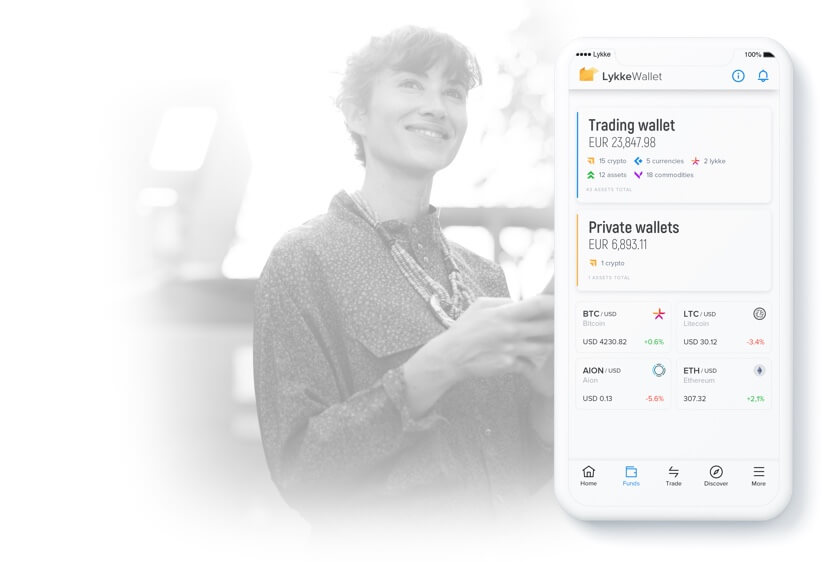
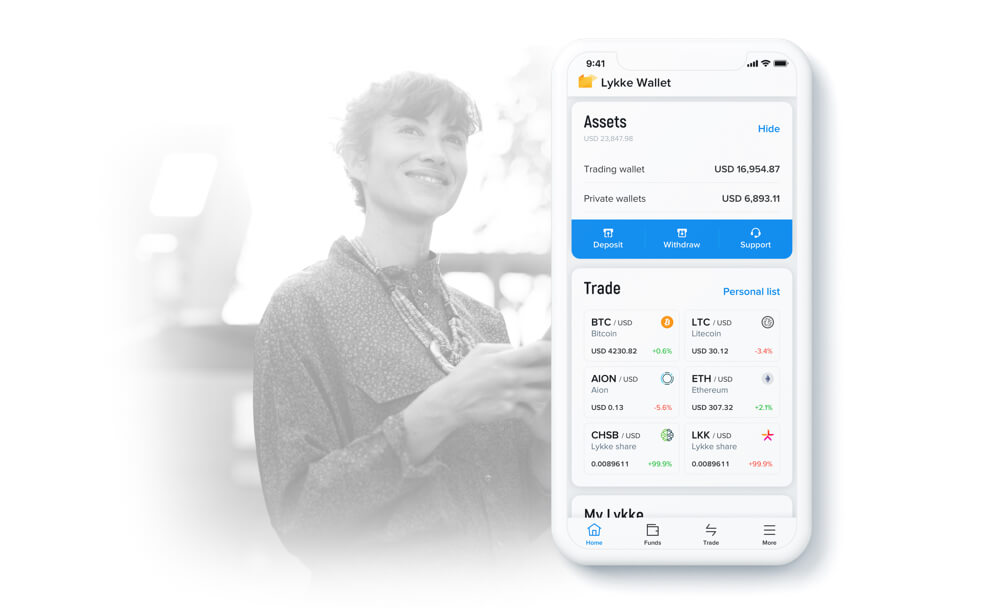
WEB-155 Changed hero images, added cryptocurrencies table in LyCI section on mobile

Changed region(s): [[0.1521, 0.0302, 1.0, 0.968]]

diff --git a/components/Home/LykkeIndex.js b/components/Home/LykkeIndex.js
@@ -86,6 +86,39 @@ export const Gradient = styled.div`
   margin-top: ${rem('-10px')};
 `;
 
+export const List = styled.div``;
+
+export const ListItem = styled.div`
+  margin-bottom: 30px;
+  overflow: hidden;
+`;
+
+export const ListColor = styled.div`
+  float: left;
+  width: 13px;
+  height: 48px;
+  margin-right: 10px;
+  background-color: ${p => p.theme.colors.greyLight};
+  border-radius: 10px;
+`;
+
+export const ListContent = styled.div`
+  overflow: hidden;
+  padding-top: 5px;
+`;
+
+export const ListTitle = styled.div`
+ color: ${p => p.theme.colors.black};
+ font-size: 23px;
+ line-height: normal;
+`;
+
+export const ListDesc = styled.div`
+  color: ${p => p.theme.colors.grey};
+  font-size: 16px;
+  line-height: normal;
+`;
+
 export default () => (
   <Wrapper grey>
     <Grid className="container">
@@ -97,6 +130,72 @@ export default () => (
             <span>Buy them all with</span>
             <Gradient>Lykke Index</Gradient>
           </Title>
+
+          <List as={Row} className="d-md-none">
+            <ListItem as={Col} xs={4}>
+              <ListColor style={{backgroundImage: 'linear-gradient(165deg, #3023ae, #c86dd7)'}}/>
+              <ListContent>
+                <ListTitle>57.8%</ListTitle>
+                <ListDesc>BTC</ListDesc>
+              </ListContent>
+            </ListItem>
+            <ListItem as={Col} xs={4}>
+              <ListColor style={{backgroundImage: 'linear-gradient(165deg, #ae23a1, #d76d6d)'}}/>
+              <ListContent>
+                <ListTitle>11.3%</ListTitle>
+                <ListDesc>ETH</ListDesc>
+              </ListContent>
+            </ListItem>
+            <ListItem as={Col} xs={4}>
+              <ListColor style={{backgroundImage: 'linear-gradient(165deg, #2399ae, #6dd0d7)'}}/>
+              <ListContent>
+                <ListTitle>11.1%</ListTitle>
+                <ListDesc>XRP</ListDesc>
+              </ListContent>
+            </ListItem>
+            <ListItem as={Col} xs={4}>
+              <ListColor style={{backgroundImage: 'linear-gradient(165deg, #ff4121, #e4b086)'}}/>
+              <ListContent>
+                <ListTitle>5.1%</ListTitle>
+                <ListDesc>BCH</ListDesc>
+              </ListContent>
+            </ListItem>
+            <ListItem as={Col} xs={4}>
+              <ListColor style={{backgroundImage: 'linear-gradient(165deg, #2a70c0, #00bb80)'}}/>
+              <ListContent>
+                <ListTitle>2.6%</ListTitle>
+                <ListDesc>EOS</ListDesc>
+              </ListContent>
+            </ListItem>
+            <ListItem as={Col} xs={4}>
+              <ListColor style={{backgroundImage: 'linear-gradient(165deg, #c03f2a, #bb008a)'}}/>
+              <ListContent>
+                <ListTitle>2.5%</ListTitle>
+                <ListDesc>XLM</ListDesc>
+              </ListContent>
+            </ListItem>
+            <ListItem as={Col} xs={4}>
+              <ListColor style={{backgroundImage: 'linear-gradient(165deg, #2aa3c0, #bb008a)'}}/>
+              <ListContent>
+                <ListTitle>1.7%</ListTitle>
+                <ListDesc>LTC</ListDesc>
+              </ListContent>
+            </ListItem>
+            <ListItem as={Col} xs={4}>
+              <ListColor style={{backgroundImage: 'linear-gradient(165deg, #ffb300, #bb7500)'}}/>
+              <ListContent>
+                <ListTitle>1.1%</ListTitle>
+                <ListDesc>ADA</ListDesc>
+              </ListContent>
+            </ListItem>
+            <ListItem as={Col} xs={4}>
+              <ListColor style={{backgroundImage: 'linear-gradient(165deg, #23ae77, #6d7bd7)'}}/>
+              <ListContent>
+                <ListTitle>6.8%</ListTitle>
+                <ListDesc>Other</ListDesc>
+              </ListContent>
+            </ListItem>
+          </List>
 
           <Text>
             LyCI&nbsp;is a&nbsp;weighted index that consolidates and tracks

diff --git a/components/Home/Features.js b/components/Home/Features.js
@@ -317,19 +317,20 @@ export default class extends Component {
                   <SliderImage
                     src="/static/images/phone-01.png"
                     alt=""
-                    width="467px"
+                    height="571px"
+                    style={{marginLeft: '-20px'}}
                     active={this.state.selectedIndex === 0}
                   />
                   <SliderImage
                     src="/static/images/phone-02.png"
                     alt=""
-                    width="467px"
+                    height="571px"
                     active={this.state.selectedIndex === 1}
                   />
                   <SliderImage
                     src="/static/images/phone-03.png"
                     alt=""
-                    width="467px"
+                    height="571px"
                     active={this.state.selectedIndex === 2}
                   />
                 </SliderImages>

diff --git a/components/Home/Lead.js b/components/Home/Lead.js
@@ -48,7 +48,7 @@ export const Image = styled.div`
   user-select: none;
 
   @media all and (max-width: 767px) {
-    margin: 0 0 0 -265px;
+    margin: -15px 0 5px -185px;
 
     img {
       max-width: 100%;
@@ -173,12 +173,12 @@ export default () => (
           <Image>
             <img
               src="/static/images/hero-mobile.jpg"
-              width={411}
+              width="502px"
               className="d-md-none"
             />
             <img
               src="/static/images/hero.jpg"
-              width={778}
+              width="778px"
               className="d-none d-md-block"
             />
           </Image>
